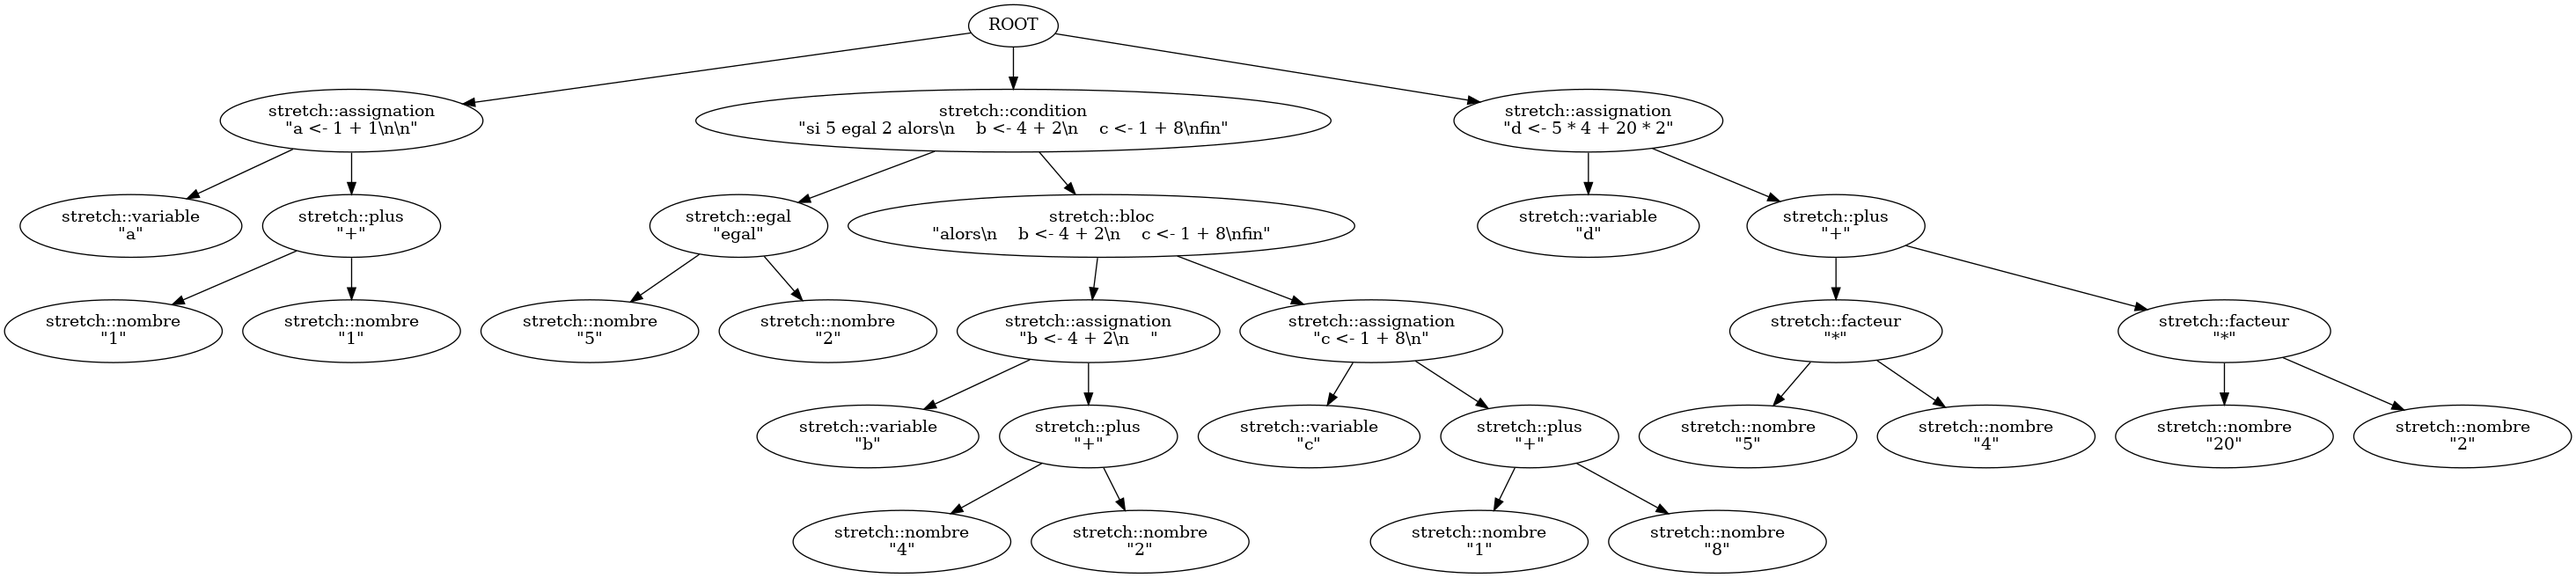
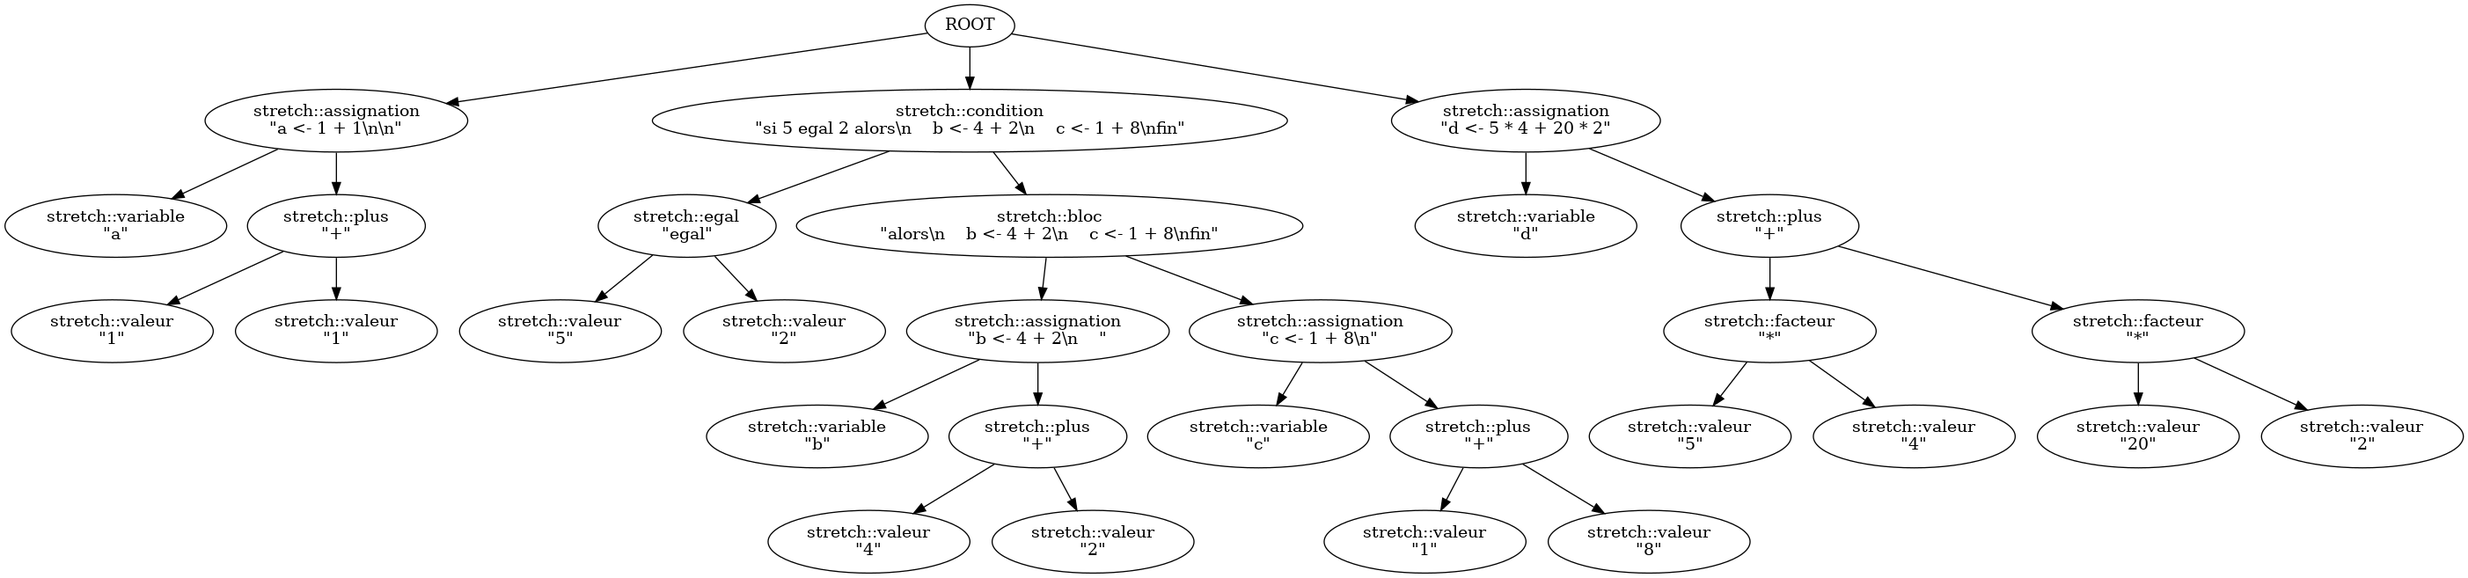
correction de la grammaire valeur

diff --git a/include/stretch/Grammaire.hpp b/include/stretch/Grammaire.hpp
@@ -65,8 +65,8 @@ struct parenthese_fermante : pe::one< ')' > {};
 /// Ponctuation
 struct virgule : pe::one< ',' > {};
 struct point : pe::one< '.' > {};
-struct guillemets : pe::one< '"' >;
-struct apostrophe : pe::one< '\'' >;
+struct guillemets : pe::one< '"' > {};
+struct apostrophe : pe::one< '\'' > {};
 
 /////////////////////////////////////////////////
 /// @brief Separateurs
@@ -85,14 +85,14 @@ struct reel : pe::seq< entier, point, pe::opt< entier > > {};                   
 struct chaine : pe::seq< guillemets, pe::until< guillemets > > {};              ///< ie. "hello"
 struct booleen : pe::sor < vrai, faux > {};                                     ///< ie. vrai
 
+struct operation;
+struct parentheses : pe::seq< parenthese_ouvrante, operation, parenthese_fermante > {};
+struct valeur : pe::sor< variable, entier, reel, chaine, booleen, parentheses > {};
+
 /////////////////////////////////////////////////
 /// @brief Operations
 /////////////////////////////////////////////////
-struct operation;
-struct parentheses : pe::seq< parenthese_ouvrante, operation, parenthese_fermante > {};
-struct valeur : pe::seq< separateur, pe::sor< variable, entier, reel, chaine, booleen, parentheses >, separateur > {};
-
-struct operation_produit : pe::list< valeur, pe::sor < facteur, fraction, modulo > > {};
+struct operation_produit : pe::list< pe::seq< separateur, valeur, separateur >, pe::sor < facteur, fraction, modulo > > {};
 struct operation_somme : pe::list< operation_produit, pe::sor < plus, moins > > {};
 struct operation_ordre : pe::list< operation_somme, pe::sor < plus_grand_que, plus_petit_que > > {};
 struct operation_egal : pe::list< operation_ordre, pe::sor < egal > > {};
@@ -154,7 +154,7 @@ template< typename Rule >
 using selector = tao::pegtl::parse_tree::selector< Rule,
     tao::pegtl::parse_tree::store_content::on<
         // operations
-        nombre,
+        valeur,
         plus,
         moins,
         facteur,
